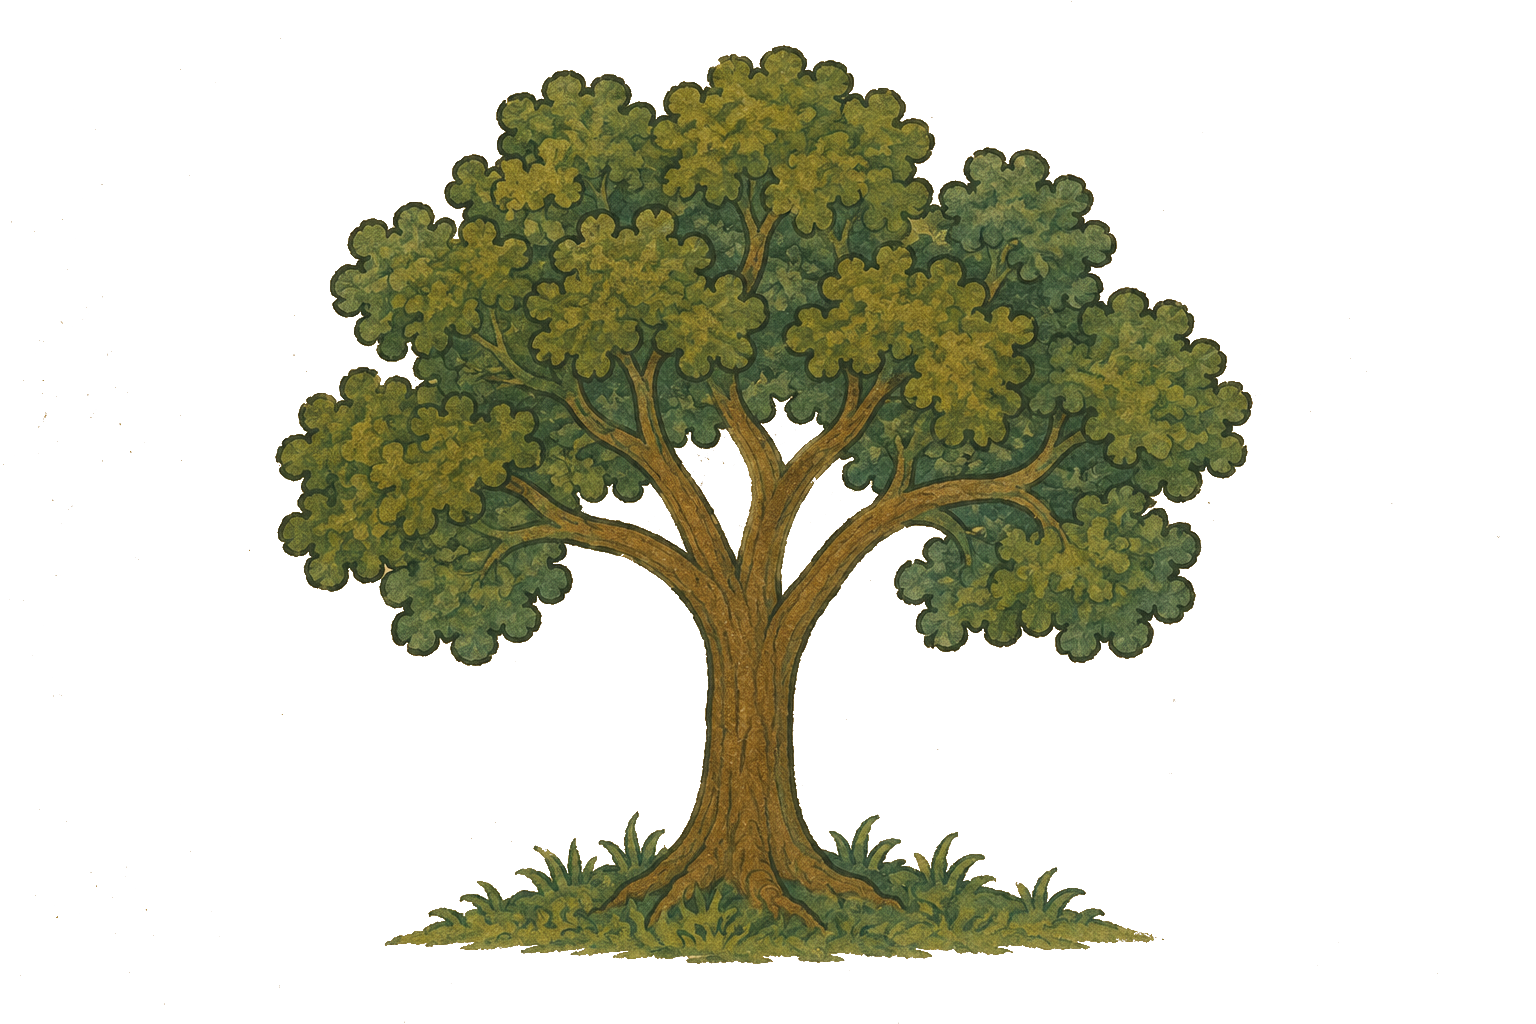
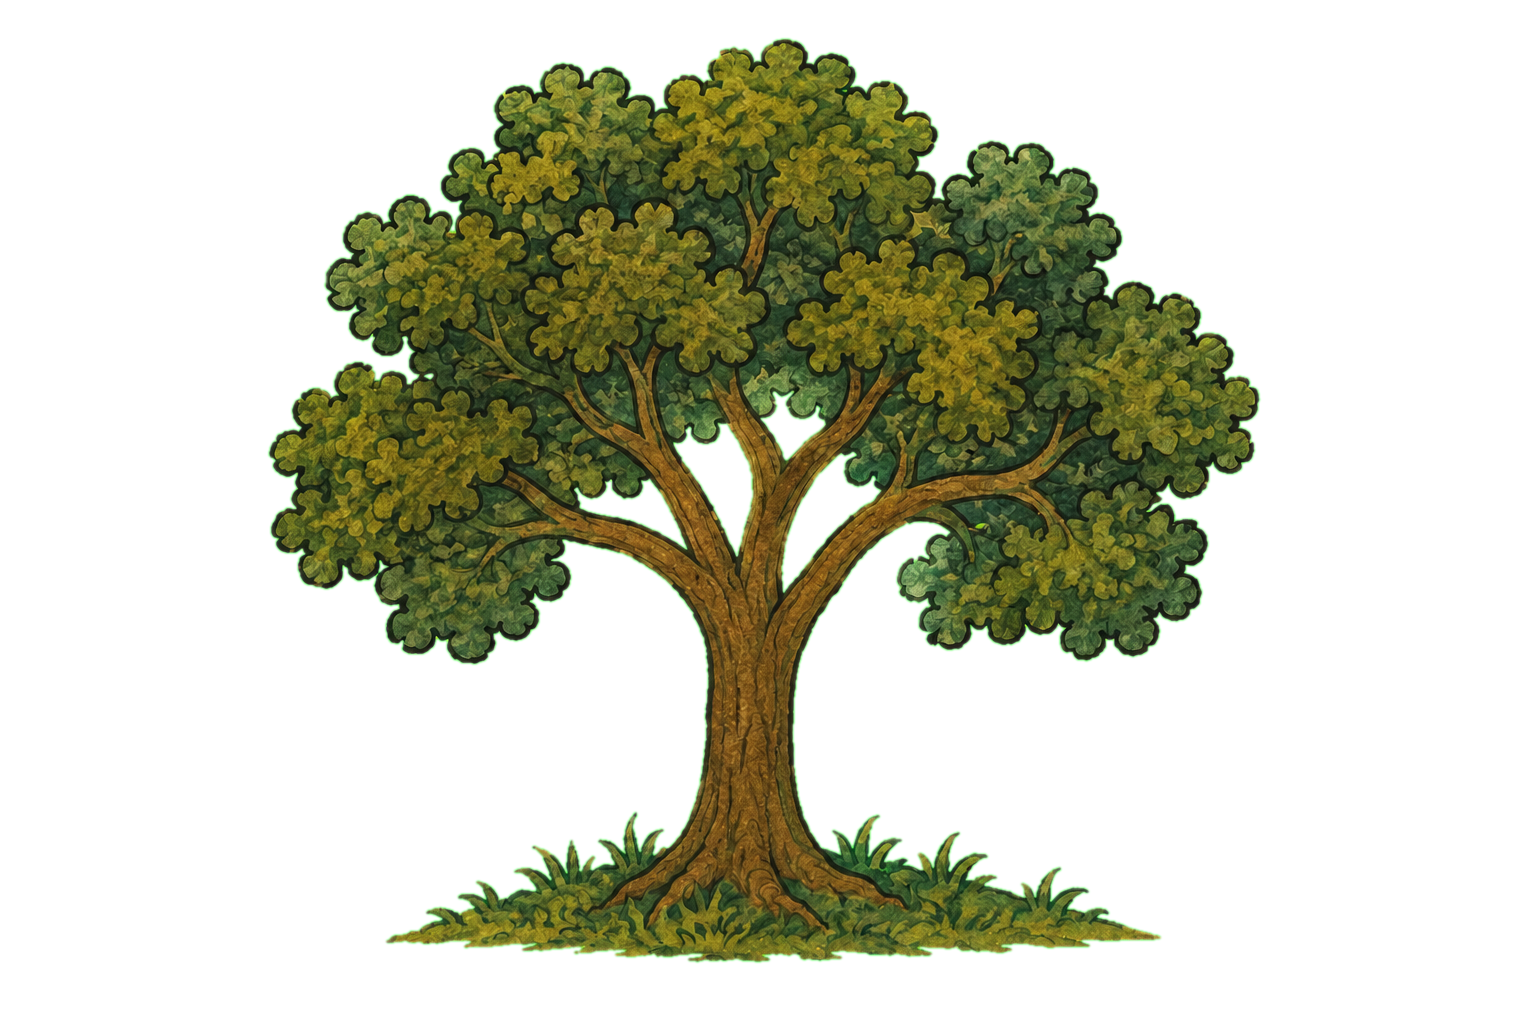
Add decorative map vegetation with trees, spruce, bushes, and stones.
Procedurally places ~30 walk-through sprites per map in forest clusters and singles. Includes neon-green chroma key tooling and headless vegetation test.

Changed region(s): [[0.1562, 0.0312, 0.8438, 0.9375]]

diff --git a/tools/key_vegetation_png.py b/tools/key_vegetation_png.py
@@ -1,0 +1,59 @@
+#!/usr/bin/env python3
+"""Chroma-key neon green screen from vegetation PNGs (tree, spruce, bush, stone).
+
+Uses a tight bright-green mask so darker tree foliage is preserved.
+"""
+from __future__ import annotations
+
+import sys
+from pathlib import Path
+
+import cv2
+import numpy as np
+
+ROOT = Path(__file__).resolve().parents[1]
+ASSETS = [
+    ROOT / "images/background/tree.png",
+    ROOT / "images/background/tree_spruce.png",
+    ROOT / "images/background/bush.png",
+    ROOT / "images/background/stone.png",
+]
+
+
+def key_screen_green(bgr: np.ndarray) -> np.ndarray:
+    b, g, r = cv2.split(bgr)
+    bg = (g > 180) & (g > r * 1.8) & (g > b * 1.8) & (r < 100) & (b < 100)
+    bg_mask = bg.astype(np.uint8) * 255
+    kernel = cv2.getStructuringElement(cv2.MORPH_ELLIPSE, (3, 3))
+    bg_mask = cv2.morphologyEx(bg_mask, cv2.MORPH_CLOSE, kernel, iterations=1)
+    alpha = cv2.bitwise_not(bg_mask)
+    alpha = cv2.GaussianBlur(alpha, (5, 5), 0)
+    bgra = cv2.cvtColor(bgr, cv2.COLOR_BGR2BGRA)
+    bgra[:, :, 3] = alpha
+    return bgra
+
+
+def main() -> int:
+    for path in ASSETS:
+        if not path.is_file():
+            print(f"MISSING: {path}", file=sys.stderr)
+            return 1
+        bgr = cv2.imread(str(path), cv2.IMREAD_COLOR)
+        if bgr is None:
+            print(f"READ_FAIL: {path}", file=sys.stderr)
+            return 1
+        bgra = key_screen_green(bgr)
+        cv2.imwrite(str(path), bgra)
+        fg_pct = (bgra[:, :, 3] > 128).mean() * 100.0
+        corners = [
+            bgra[5, 5, 3],
+            bgra[5, -6, 3],
+            bgra[-6, 5, 3],
+            bgra[-6, -6, 3],
+        ]
+        print(f"KEYED {path.name}: foreground={fg_pct:.1f}% corner_alpha={corners}")
+    return 0
+
+
+if __name__ == "__main__":
+    raise SystemExit(main())
